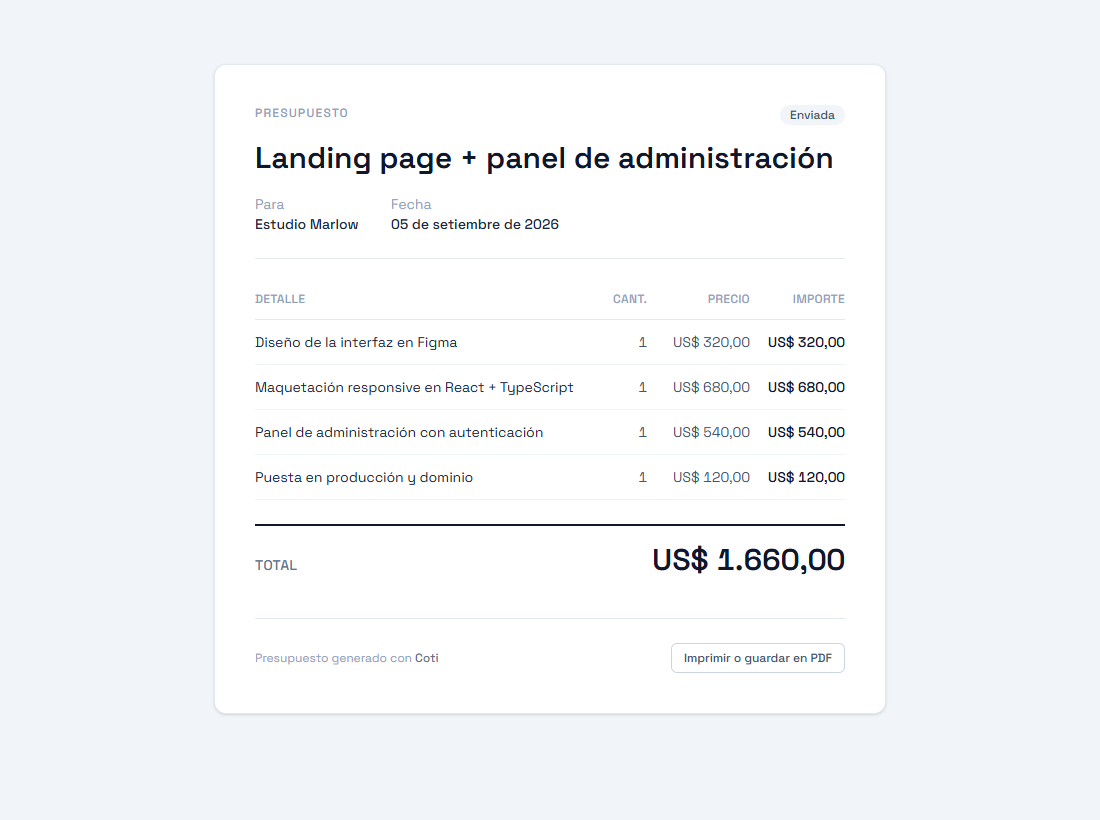
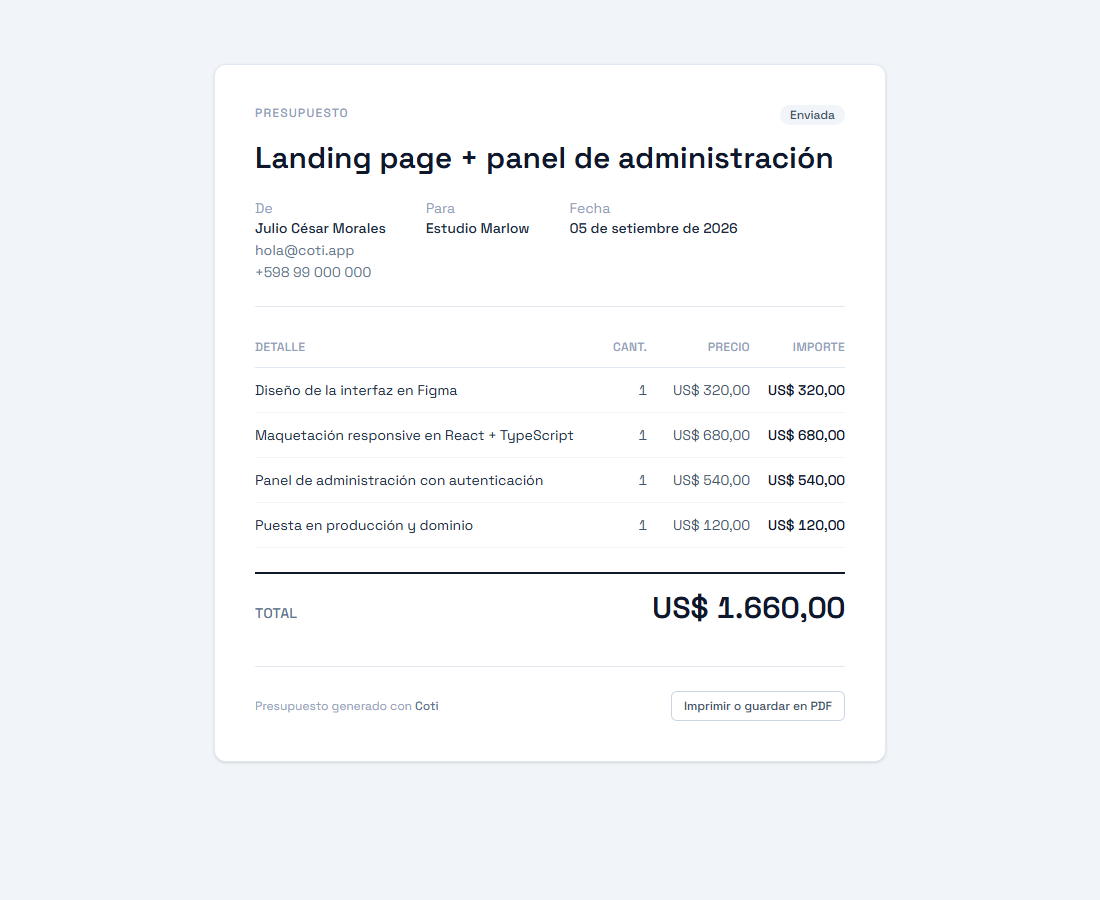
Documentar cuentas y datos del emisor

diff --git a/README.md b/README.md
@@ -86,11 +86,21 @@ mismo las variables de la demo están en `vercel.json`: acaban en el JavaScript 
 descarga el navegador de cualquier forma, así que esconderlas no aportaría nada.
 La `service_role` key, esa sí secreta, no se usa en ningún lado de este proyecto.
 
+## Cuentas
+
+Registro con confirmación por correo, inicio de sesión y recuperación de contraseña
+(pedir el enlace, elegir una nueva y entrar). Hay además una cuenta de demostración con
+datos cargados para que se pueda probar sin registrarse.
+
+Cada usuario completa **sus datos** —nombre o negocio, email de contacto y teléfono— y eso
+es lo que aparece en el presupuesto que recibe el cliente. Sin eso el documento llegaría
+sin decir de quién viene.
+
 ## Correos de autenticación
 
 El registro manda un correo de confirmación con la identidad de Coti, no con la del
-proveedor. Las plantillas están en `supabase/templates/` y se envían por un SMTP propio
-(Brevo).
+proveedor. Las plantillas (confirmar cuenta y restablecer contraseña) están en
+`supabase/templates/` y se envían por un SMTP propio (Brevo).
 
 ![Correo de confirmación](docs/coti-email-confirmacion.png)
 
